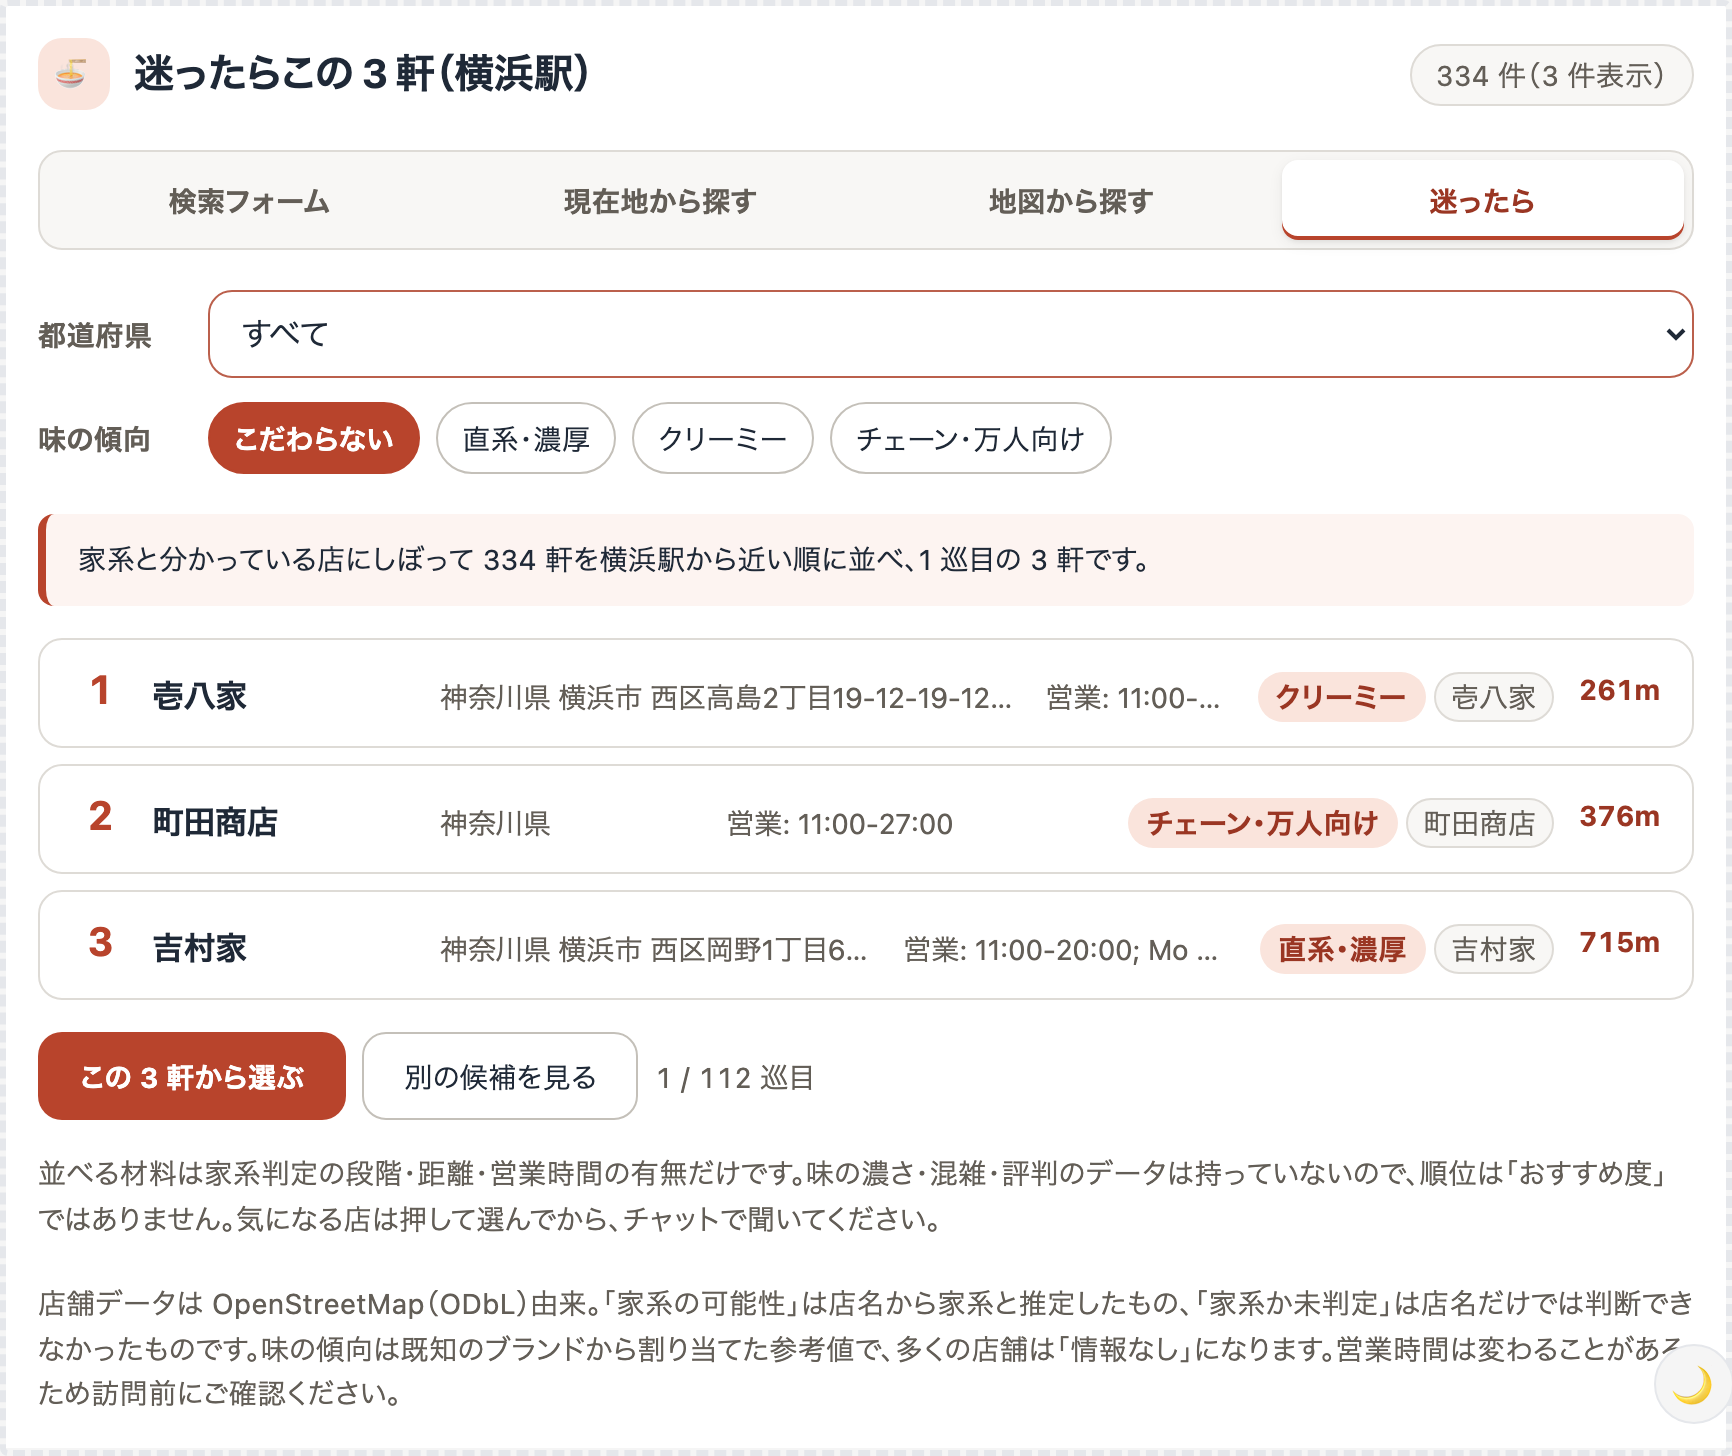
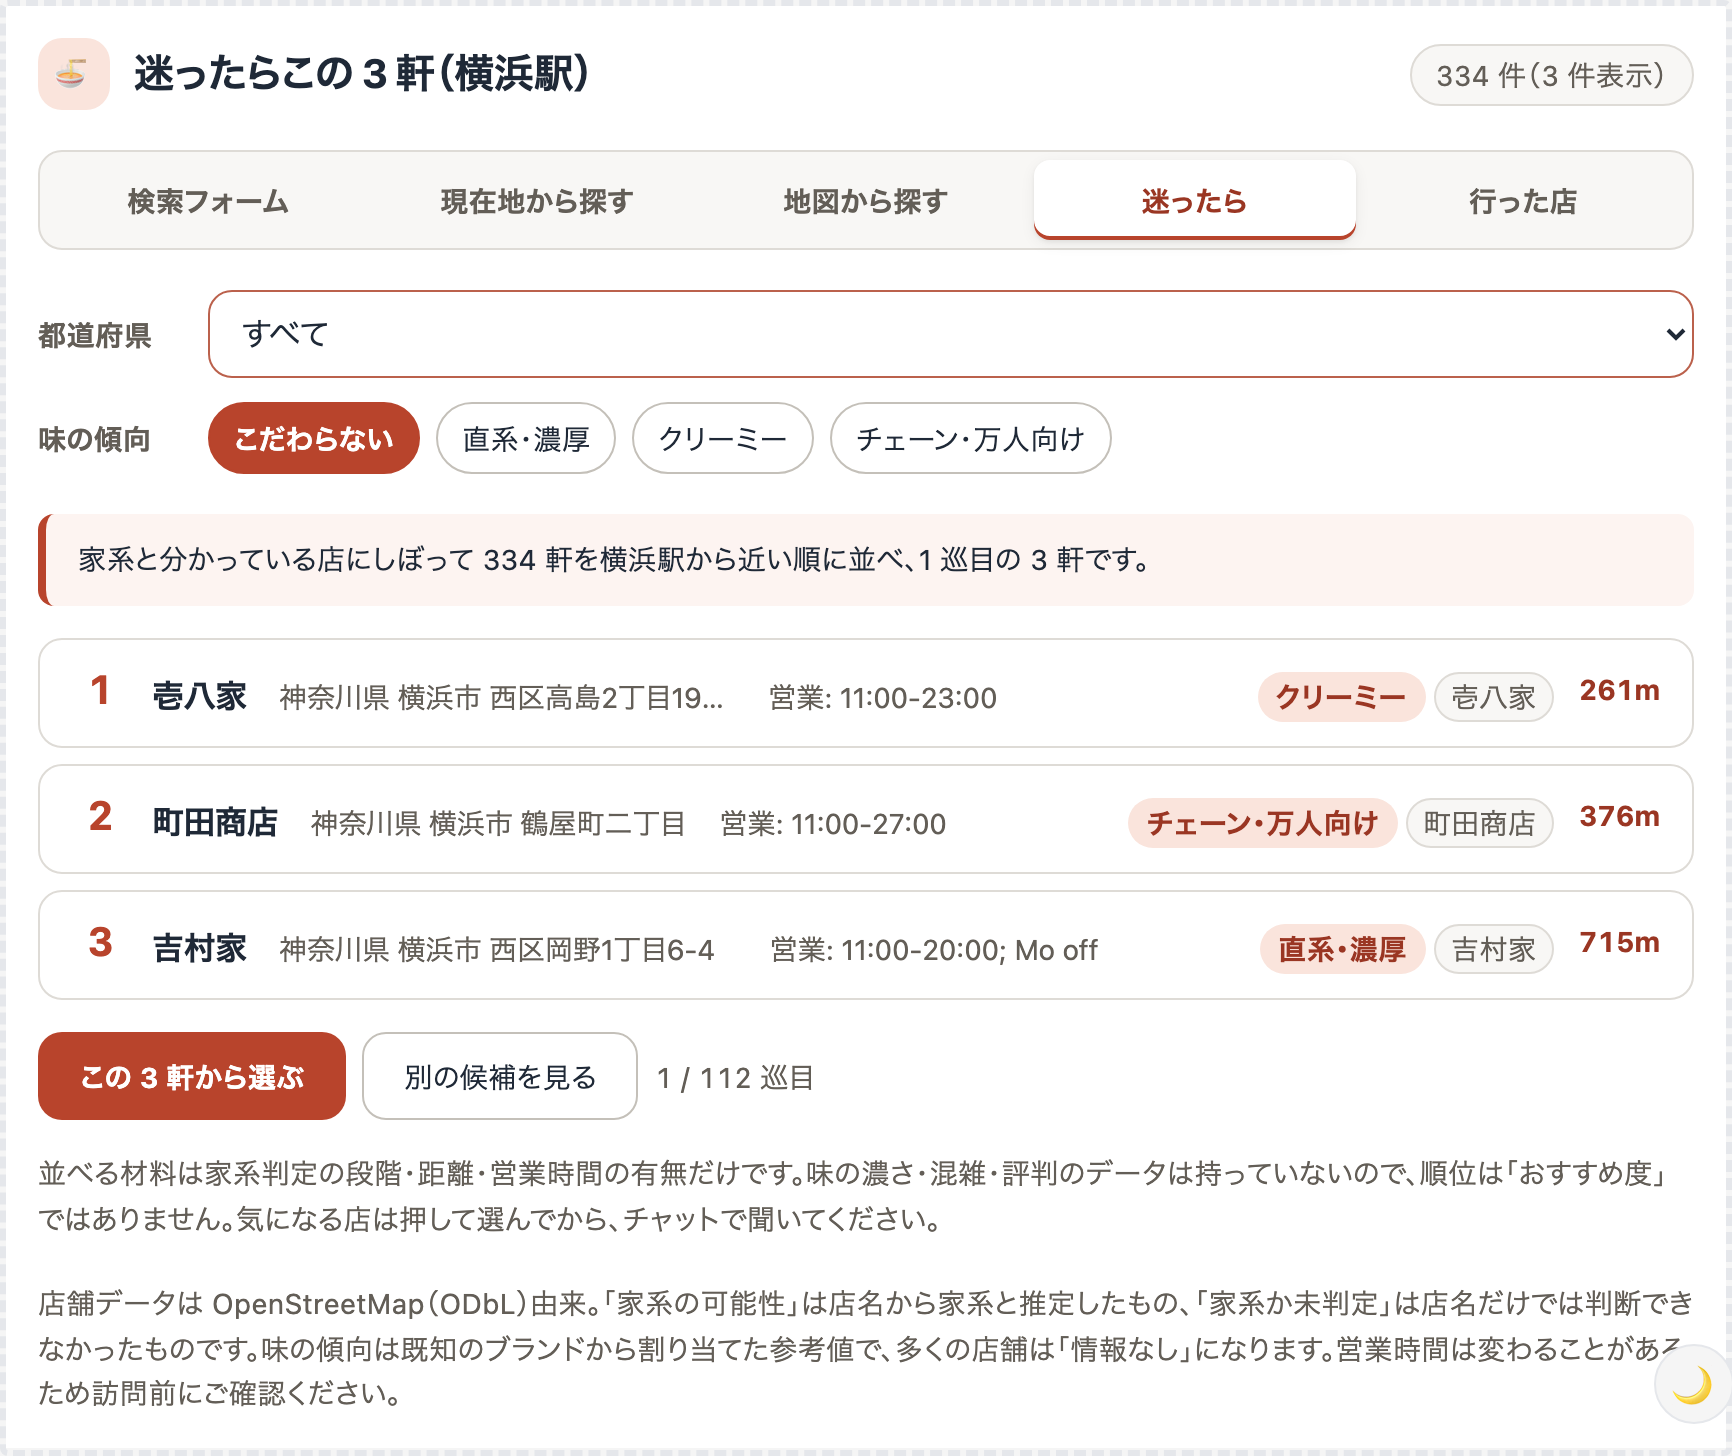
README を今の姿に合わせ、システムの図解を足す
機能が 5 モード・8 tool になり、サインインと記録が入ったのに、README は UI 付き
tool が 4 つだった頃のままだった。繋いだ人が「なぜ急にサインインを求められるのか」
を README から追えない。

- モード表・構成表・tool 一覧を今の姿に（記録の 3 tool は「匿名で呼ぶと 401」を
  明記）。スクリーンショットも撮り直し、「行った店」を追加
- **図解を 4 枚、Mermaid で足した**（全体像 / 機能と tool / 記録するまで / 作り方）。
  GitHub がマークダウンのまま描くので、画像を持たずに読める。4 枚とも実際に
  レンダリングして確認した
- **Claude Code で作っていることをバッジと節で明示。** 設計の理由は
  CLAUDE.md / DESIGN.md にあること、守っている 3 つ（数字で再現してから直す /
  回帰テストは落ちることを確かめてから足す / 理由をコメントに残す）を書いた

## レビューで見つかった 4 件も直した

すべて**文章と実装の食い違い**だった。README は読む人が信じる文書なので、
書いた内容を数えて確かめ直した。

- 「デプロイ時に自動で適用」と書いたが、移行を適用していたのは CI だけで
  `npm run deploy` は素通りだった。**記述を弱めず、書いたとおりに動くよう**
  `npm run db:migrate` を切り出して両方から呼ぶようにした
- テスト件数が実測と不一致（別ブランチの数字だった）。測り直し、**図からは
  件数を外した**（2 か所あると片方が古くなる）
- 「番地は出さない」が実際と違った。座標から補う分は町名までだが、OSM のタグに
  番地が入っている店（558 件中 95 件）はそのまま出る。書き分けた
- 「検索だけなら外部のサービスは要りません」が嘘だった。地名の解決（Nominatim）と
  **地図の背景（タイル）**が実行時に外へ出る。落ちたときに何ができなくなるかまで
  表にした

検証: unit + 結合 279 件、E2E 108 件、lint / format / typecheck / knip。

diff --git a/tests/deploy-workflow.test.ts b/tests/deploy-workflow.test.ts
@@ -9,10 +9,13 @@ import { readFileSync } from "node:fs";
 import { describe, expect, it } from "vitest";
 
 const workflow = readFileSync(new URL("../.github/workflows/ci.yml", import.meta.url), "utf8");
+const { scripts } = JSON.parse(
+  readFileSync(new URL("../package.json", import.meta.url), "utf8"),
+) as { scripts: Record<string, string> };
 
 describe("本番デプロイ", () => {
   it("表を作ってからコードを出す", () => {
-    const apply = workflow.indexOf("wrangler d1 migrations apply");
+    const apply = workflow.indexOf("npm run db:migrate");
     /*
      * **本当に出す行だけを見る。** このファイルには `wrangler deploy --dry-run`
      * （ビルドの確認）もあり、素直に探すとそちらに当たって順番を測り損ねる
@@ -33,6 +36,17 @@ describe("本番デプロイ", () => {
     const name = config.match(/"database_name"\s*:\s*"([^"]+)"/)?.[1];
 
     expect(name, "wrangler.jsonc に D1 の名前が無い").toBeTruthy();
-    expect(workflow).toContain(`wrangler d1 migrations apply ${name} --remote`);
+    expect(scripts["db:migrate"]).toContain(`wrangler d1 migrations apply ${name} --remote`);
+  });
+
+  it("手元から出すときも、表を作ってから出す", () => {
+    /*
+     * **CI だけ直しても足りない。** 新しい環境へ手元から `npm run deploy` した
+     * とき、移行が適用されないと記録の tool が無い表を触る（README に
+     * 「デプロイ時に自動で適用」と書いてあるのに適用されない状態だった）。
+     */
+    const deploy = scripts.deploy;
+    expect(deploy).toContain("db:migrate");
+    expect(deploy.indexOf("db:migrate")).toBeLessThan(deploy.indexOf("wrangler deploy"));
   });
 });

diff --git a/e2e/capture.spec.ts b/e2e/capture.spec.ts
@@ -3,7 +3,7 @@
  * 通常の E2E とは別扱いで、`npm run capture` から実行する。
  */
 import { expect, test } from "@playwright/test";
-import { callTool, shopCards, waitForApp } from "./helpers";
+import { callTool, MEMBER_SERVER_NAME, shopCards, waitForApp } from "./helpers";
 
 test.use({
   viewport: { width: 900, height: 760 },
@@ -77,4 +77,30 @@ test("地図から探す", async ({ page }) => {
   // タイルの読み込みを待ってから撮る
   await page.waitForTimeout(4000);
   await shot(page, "map");
+});
+
+test("行った店", async ({ page }) => {
+  /*
+   * **記録はサインインした人のものなので、偽の利用者で動くサーバーを使う**
+   * （IEKEI_DEV_VISITOR。main.ts にしかない道で、本番には出ない）。
+   * 制覇率が 0 だと画面の意味が伝わらないので、3 軒押してから撮る。
+   */
+  await callTool(page, "forget-my-iekei-ramen-visits", {}, MEMBER_SERVER_NAME);
+  const app = await callTool(
+    page,
+    "search-iekei-ramen",
+    { prefecture: "神奈川県" },
+    MEMBER_SERVER_NAME,
+  );
+  await waitForApp(app);
+
+  for (const index of [0, 1, 2]) {
+    await shopCards(app).nth(index).click();
+    await app.getByRole("button", { name: "行った", exact: true }).click();
+    await expect(app.getByRole("button", { name: "行ったを取り消す" })).toBeVisible();
+  }
+
+  await app.getByRole("tab", { name: "行った店" }).click();
+  await expect(shopCards(app)).toHaveCount(3);
+  await shot(page, "visited");
 });
